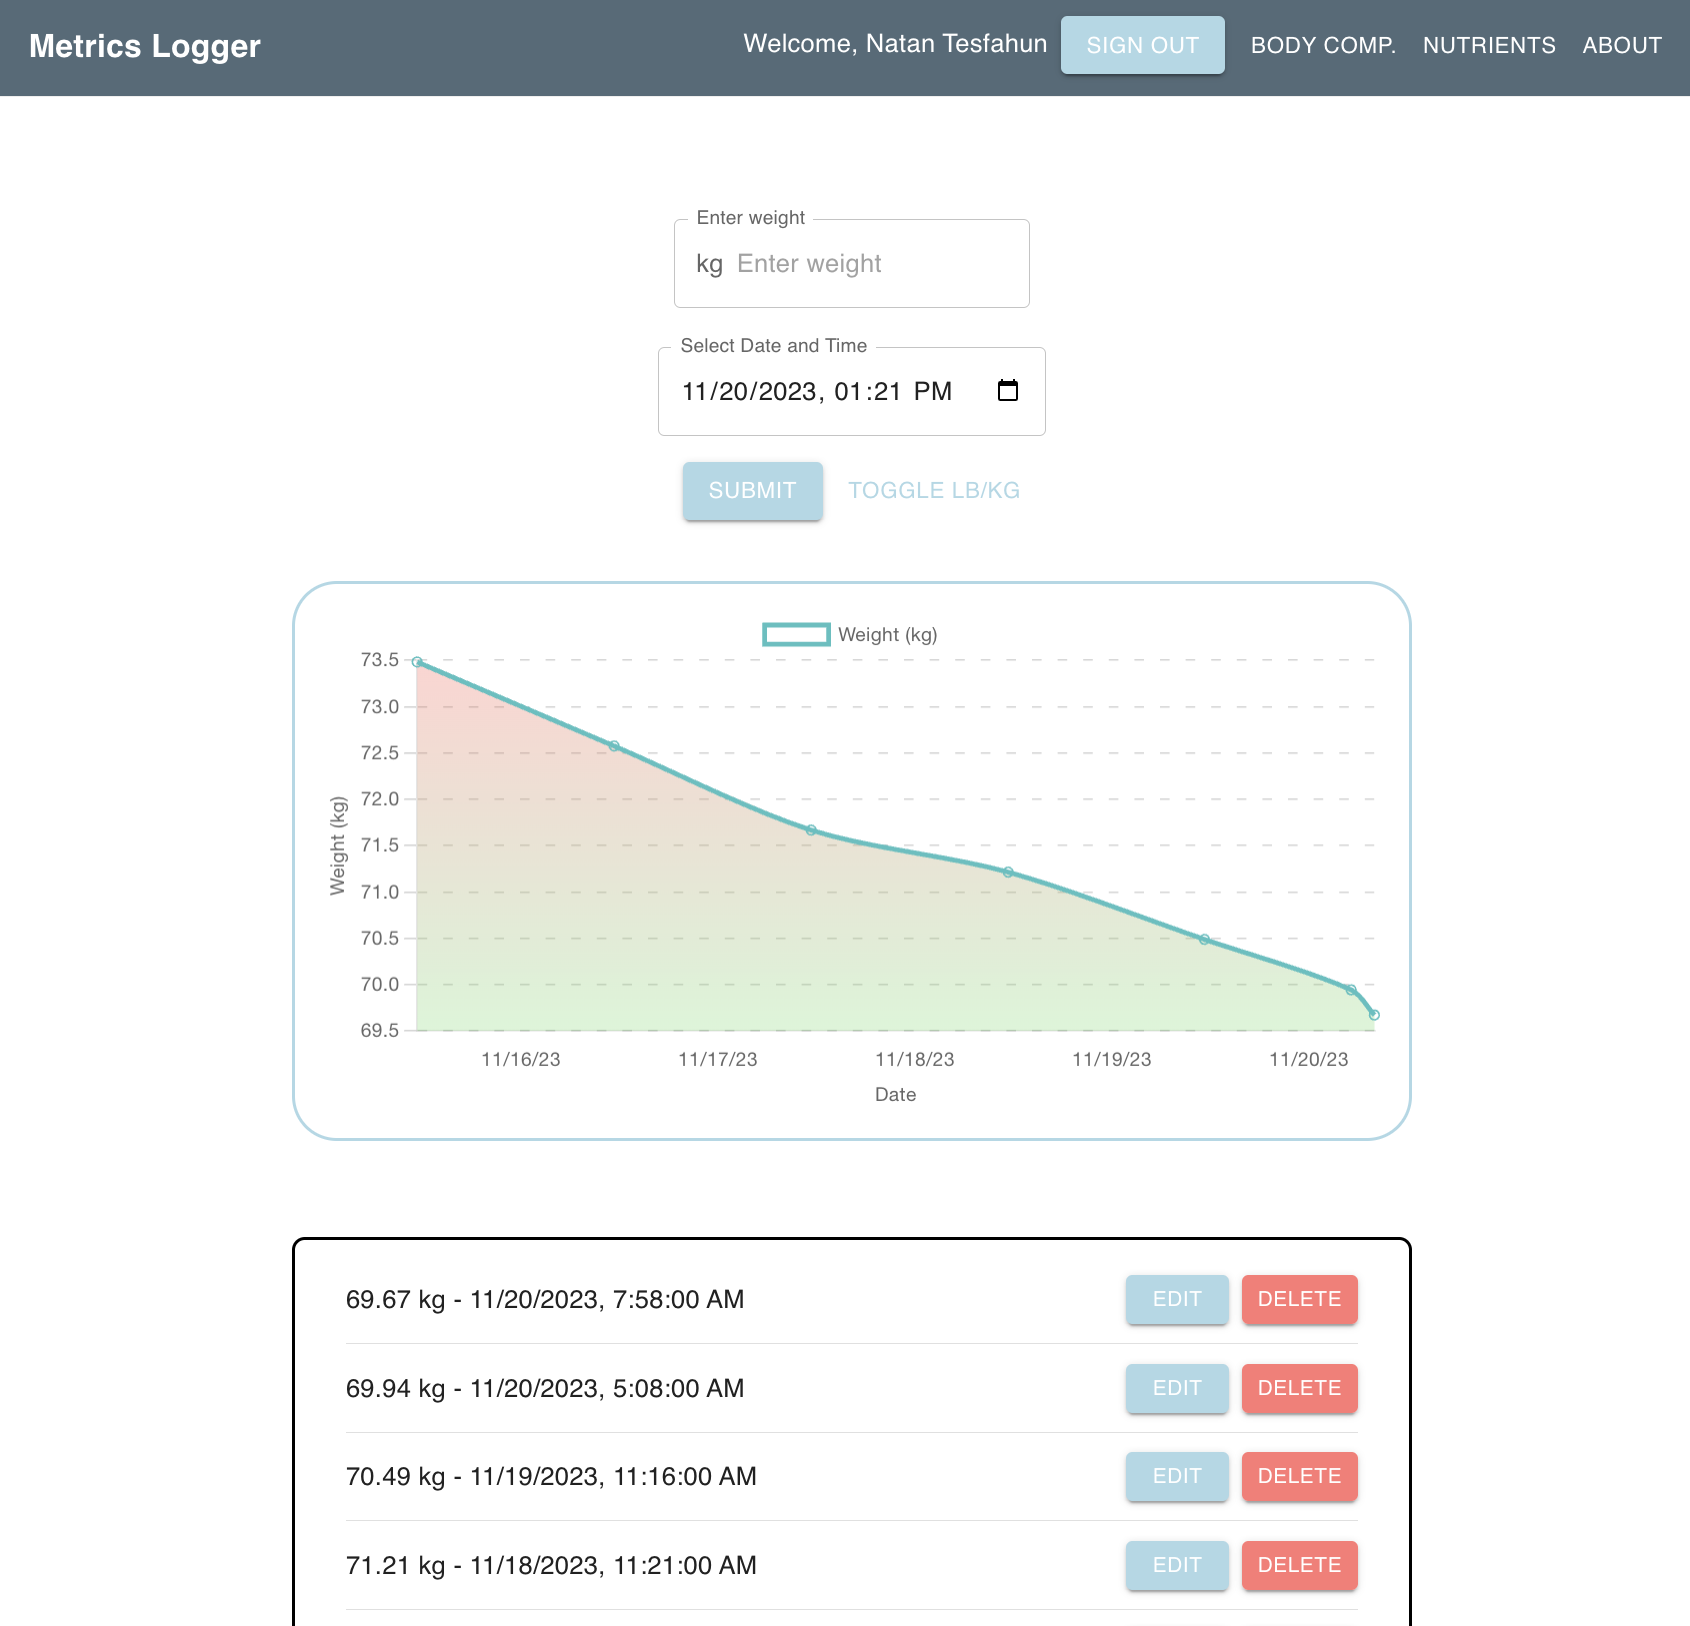
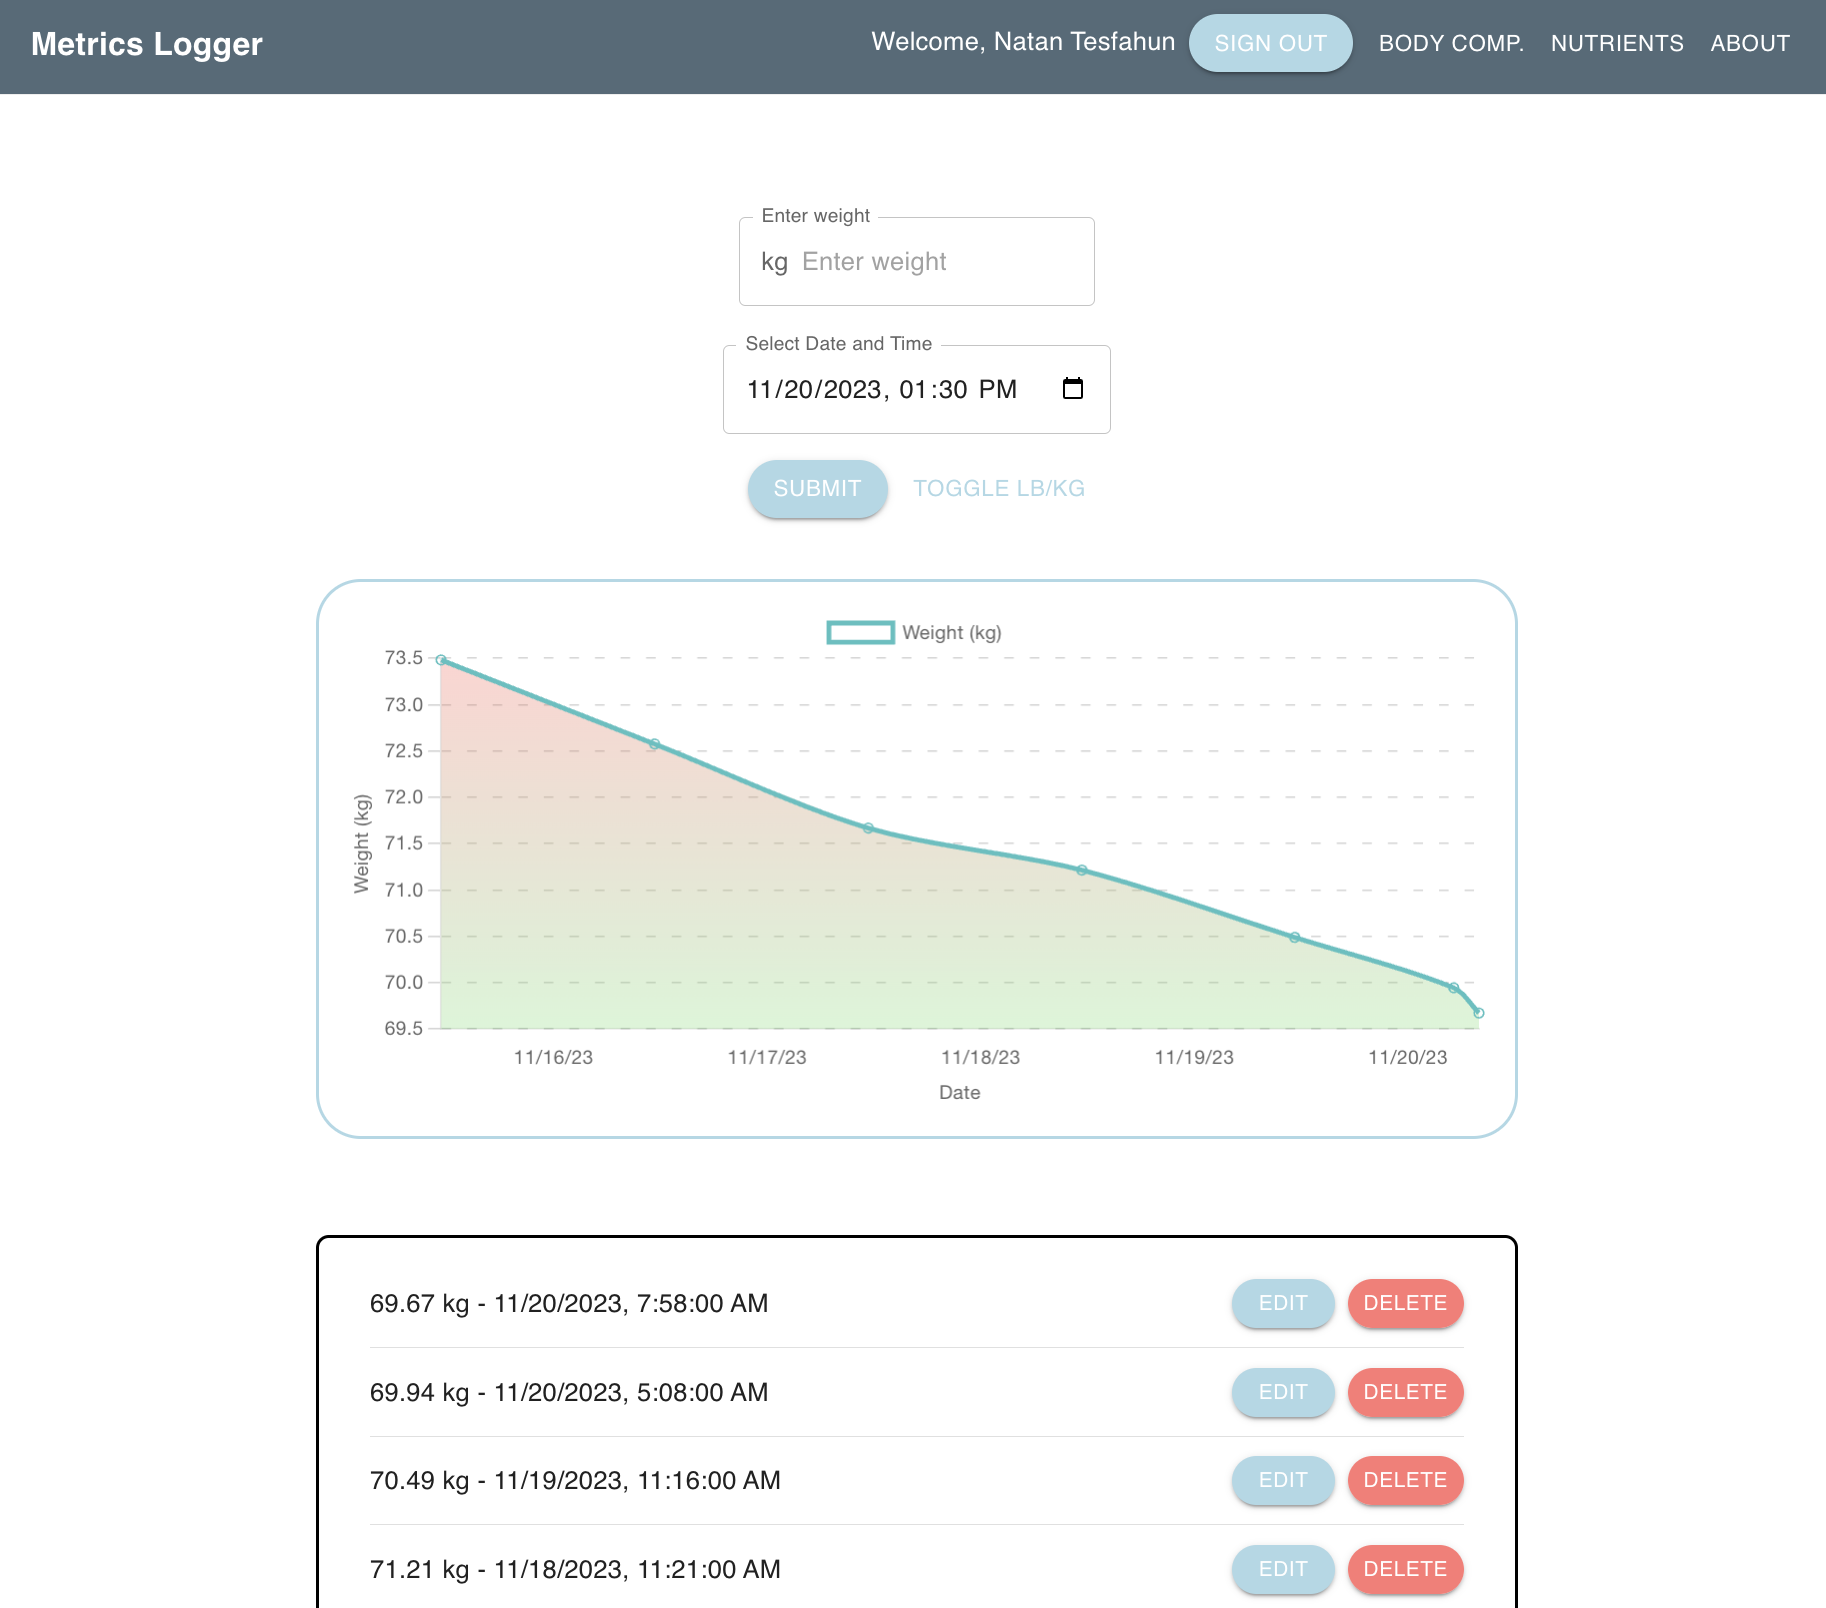
read me stuff

diff --git a/src/App.jsx b/src/App.jsx
@@ -28,12 +28,13 @@ function App() {
         contrastText: "#fff",
       },
     },
-    overrides: {
+    components: {
       MuiButton: {
-        root: {
-          borderRadius: 20, // Increase border-radius
-          background: "linear-gradient(45deg, #FE6B8B 30%, #FF8E53 90%)",
-          // Add a gradient background
+        styleOverrides: {
+          root: {
+            borderRadius: 20, // Increased border-radius
+            // Gradient background
+          },
         },
       },
     },
